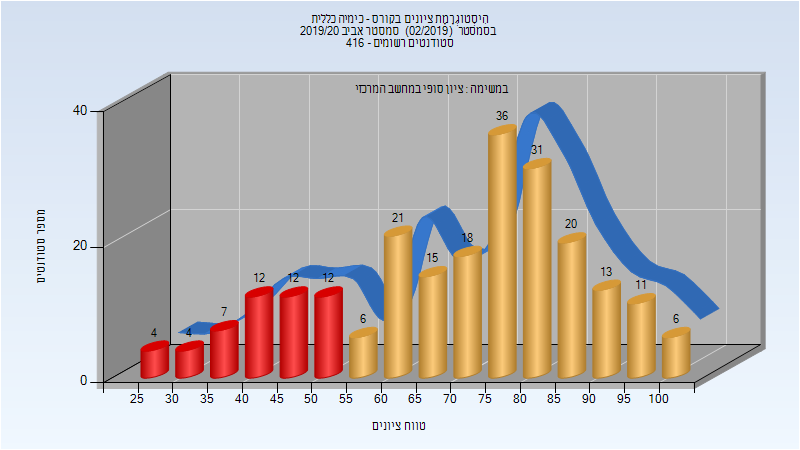
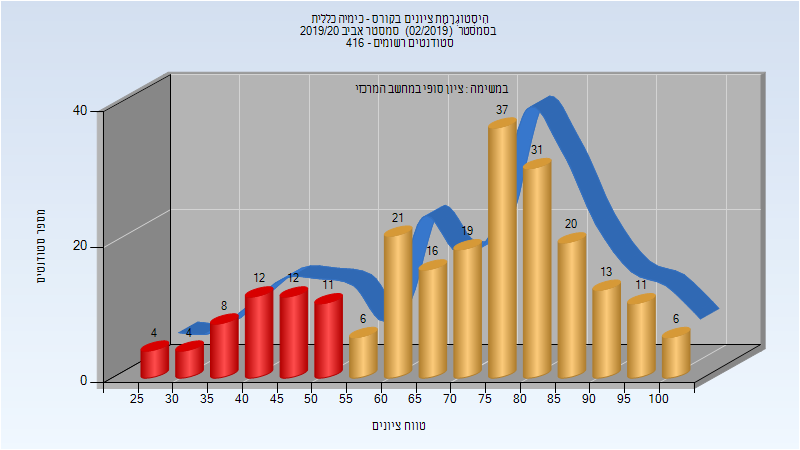
Deploy michael-maltsev/technion-histograms to github.com/michael-maltsev/technion-histograms.git:gh-pages

diff --git a/036027/index.html b/036027/index.html
@@ -1,0 +1,40 @@
+<!DOCTYPE html>
+<html lang="he" dir="rtl">
+  <head>
+    <meta charset="utf-8">
+    <link rel="shortcut icon" href="https://michael-maltsev.github.io/technion-histograms/favicon.ico">
+    <meta name="viewport" content="width=device-width, initial-scale=1">
+    <meta name="google-site-verification" content="Nps3LEfDaHCQolJfA4KJfgEA1c4hv6R04bCUijxBwdY" />
+    <title>036027 - דינמיקה של מבנים ימיים | technion-histograms</title>
+    <style>
+      /* stolen from thebestmotherfucking.website */
+      body{font-family:Open Sans,Arial;color:#454545;font-size:16px;margin:2em auto;max-width:800px;padding:1em;line-height:1.4;text-align:justify}html.contrast body{color:#050505}html.contrast blockquote{color:#11151a}html.contrast blockquote:before{color:#262626}html.contrast a{color:#0051c9}html.contrast a:visited{color:#7d013e}html.contrast span.wr{color:#800}html.contrast span.mfw{color:#4d0000}@media screen and (prefers-color-scheme:light){html.inverted{background-color:#000}html.inverted body{color:#d9d9d9}html.inverted div#contrast,html.inverted div#invmode{color:#fff;background-color:#000}html.inverted blockquote{color:#d3c9be}html.inverted blockquote:before{color:#b8b8b8}html.inverted a{color:#00a2e7}html.inverted a:visited{color:#ca1a70}html.inverted span.wr{color:#d24637}html.inverted span.mfw{color:#b00000}html.inverted.contrast{background-color:#000}html.inverted.contrast body{color:#fff}html.inverted.contrast div#contrast,html.inverted.contrast div#invmode{color:#fff;background-color:#000}html.inverted.contrast blockquote{color:#f8f6f5}html.inverted.contrast blockquote:before{color:#e5e5e5}html.inverted.contrast a{color:#44c7ff}html.inverted.contrast a:visited{color:#e9579e}html.inverted.contrast span.wr{color:#db695d}html.inverted.contrast span.mfw{color:#ff0d0d}}@media (prefers-color-scheme:dark){html:not(.inverted){background-color:#000}html:not(.inverted) body{color:#d9d9d9}html:not(.inverted) div#contrast,html:not(.inverted) div#invmode{color:#fff;background-color:#000}html:not(.inverted) blockquote{color:#d3c9be}html:not(.inverted) blockquote:before{color:#b8b8b8}html:not(.inverted) a{color:#00a2e7}html:not(.inverted) a:visited{color:#ca1a70}html:not(.inverted) span.wr{color:#d24637}html:not(.inverted) span.mfw{color:#b00000}html:not(.inverted).contrast{background-color:#000}html:not(.inverted).contrast body{color:#fff}html:not(.inverted).contrast div#contrast,html:not(.inverted).contrast div#invmode{color:#fff;background-color:#000}html:not(.inverted).contrast blockquote{color:#f8f6f5}html:not(.inverted).contrast blockquote:before{color:#e5e5e5}html:not(.inverted).contrast a{color:#44c7ff}html:not(.inverted).contrast a:visited{color:#e9579e}html:not(.inverted).contrast span.wr{color:#db695d}html:not(.inverted).contrast span.mfw{color:#ff0d0d}html.inverted html{background-color:#fefefe}}a{color:#07a}a:visited{color:#941352}.noselect{-webkit-touch-callout:none;-webkit-user-select:none;-khtml-user-select:none;-moz-user-select:none;-ms-user-select:none;user-select:none}span.citneed{vertical-align:top;font-size:.7em;padding-left:.3em}small{font-size:.4em}p.st{margin-top:-1em}div.fancyPositioning div.picture-left{float:left;width:40%;overflow:hidden;margin-right:1em}div.fancyPositioning div.picture-left img{width:100%}div.fancyPositioning div.picture-left figure{margin:10px}div.fancyPositioning div.picture-left figure figcaption{font-size:.7em}div.fancyPositioning div.tleft{float:left;width:55%}div.fancyPositioning div.tleft p:first-child{margin-top:0}div.fancyPositioning:after{display:block;content:"";clear:both}ul li img{height:1em}blockquote{color:#456;margin-left:0;margin-top:2em;margin-bottom:2em}blockquote span{float:left;margin-left:1rem;padding-top:1rem}blockquote author{display:block;clear:both;font-size:.6em;margin-left:2.4rem;font-style:oblique}blockquote author:before{content:"- ";margin-right:1em}blockquote:before{font-family:Times New Roman,Times,Arial;color:#666;content:open-quote;font-size:2.2em;font-weight:600;float:left;margin-top:0;margin-right:.2rem;width:1.2rem}blockquote:after{content:"";display:block;clear:both}@media screen and (max-width:500px){body{text-align:left}div.fancyPositioning div.picture-left,div.fancyPositioning div.tleft{float:none;width:inherit}blockquote span{width:80%}blockquote author{padding-top:1em;width:80%;margin-left:15%}blockquote author:before{content:"";margin-right:inherit}}span.visited{color:#941352}span.visited-maroon{color:#85144b}span.wr{color:#c0392b;font-weight:600;text-decoration:underline}div#contrast{color:#000;top:10px}div#contrast,div#invmode{cursor:pointer;position:fixed;right:10px;font-size:.8em;text-decoration:underline;-webkit-touch-callout:none;-webkit-user-select:none;-khtml-user-select:none;-moz-user-select:none;-ms-user-select:none;user-select:none}div#invmode{color:#fff;background-color:#000;top:34px;padding:2px 5px}@media screen and (max-width:1080px){div#contrast,div#invmode{position:absolute}}span.sb{color:#00e}span.sb,span.sv{cursor:not-allowed}span.sv{color:#551a8b}span.foufoufou{color:#444;font-weight:700}span.foufoufou:before{content:"";display:inline-block;width:1em;height:1em;margin-left:.2em;margin-right:.2em;background-color:#444}span.foufivfoufivfoufiv{color:#454545;font-weight:700}span.foufivfoufivfoufiv:before{content:"";display:inline-block;width:1em;height:1em;margin-left:.2em;margin-right:.2em;background-color:#454545}span.mfw{color:#730000}a.kopimi,a.kopimi img.kopimi{display:block;margin-left:auto;margin-right:auto}a.kopimi img.kopimi{height:2em}p.fakepre{font-family:monospace;font-size:.9em}
+      table {
+        border-collapse: collapse;
+        border: 1px solid #454545;
+      }
+      table th, table td {
+        border: 1px solid #454545;
+        padding: 10px;
+      }
+    </style>
+  </head>
+  <body>
+    <h1>036027 - דינמיקה של מבנים ימיים</h1>
+<h2>אביב 2019</h2>
+<table>
+<thead>
+<tr>
+<th>איש סגל</th>
+<th>תפקיד</th>
+</tr>
+</thead>
+<tbody>
+<tr>
+<td>דרימר נתאי</td>
+<td>מרצה - אחראי מקצוע</td>
+</tr>
+</tbody>
+</table>
+  </body>
+</html>

diff --git a/index.html b/index.html
@@ -238,6 +238,7 @@
 <a href="036015/">036015 - שיטות אלמנטים סופיים בהנדסה 1</a><br />
 <a href="036020/">036020 - גאומטריה חישובית ומודלים לתיב"ם 1</a><br />
 <a href="036026/">036026 - קינמטיקה דינמיקה ובקרה של רובוטים</a><br />
+<a href="036027/">036027 - דינמיקה של מבנים ימיים</a><br />
 <a href="036032/">036032 - מכניקת זורמים אנליטית</a><br />
 <a href="036035/">036035 - מבוא להנדסת שריפה</a><br />
 <a href="036039/">036039 - בקרת מבנים ומערכות מיכניות</a><br />

diff --git a/125001/index.html b/125001/index.html
@@ -2283,12 +2283,12 @@
 </thead>
 <tbody>
 <tr>
-<td>228</td>
-<td>177/51</td>
+<td>231</td>
+<td>180/51</td>
 <td>78</td>
 <td>25</td>
 <td>100</td>
-<td>69.947</td>
+<td>69.883</td>
 <td>75</td>
 </tr>
 </tbody>

diff --git a/README.md b/README.md
@@ -217,6 +217,7 @@
 [036015 - שיטות אלמנטים סופיים בהנדסה 1](036015/)  
 [036020 - גאומטריה חישובית ומודלים לתיב"ם 1](036020/)  
 [036026 - קינמטיקה דינמיקה ובקרה של רובוטים](036026/)  
+[036027 - דינמיקה של מבנים ימיים](036027/)  
 [036032 - מכניקת זורמים אנליטית](036032/)  
 [036035 - מבוא להנדסת שריפה](036035/)  
 [036039 - בקרת מבנים ומערכות מיכניות](036039/)  

diff --git a/125001/README.md b/125001/README.md
@@ -707,5 +707,5 @@
 
 | סטודנטים | עברו/נכשלו | אחוז עוברים | ציון מינימלי | ציון מקסימלי | ממוצע | חציון |
 | ---- | ---- | ---- | ---- | ---- | ---- | ---- |
-| 228 | 177/51 | 78 | 25 | 100 | 69.947 | 75 |
+| 231 | 180/51 | 78 | 25 | 100 | 69.883 | 75 |
 

diff --git a/036027/README.md b/036027/README.md
@@ -1,0 +1,8 @@
+# 036027 - דינמיקה של מבנים ימיים
+
+## אביב 2019
+
+| איש סגל | תפקיד |
+| ---- | ---- |
+| דרימר נתאי | מרצה - אחראי מקצוע |
+
